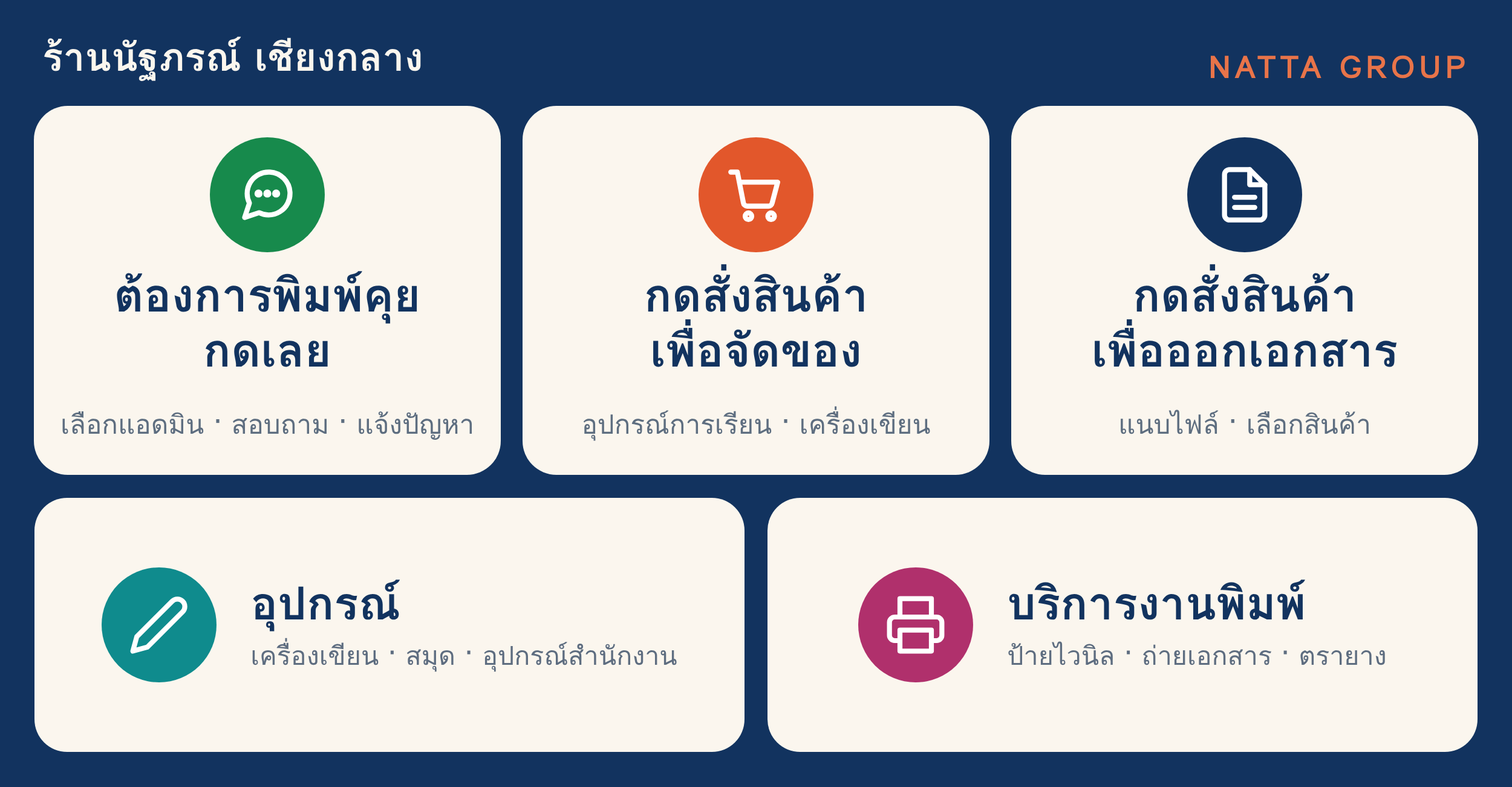
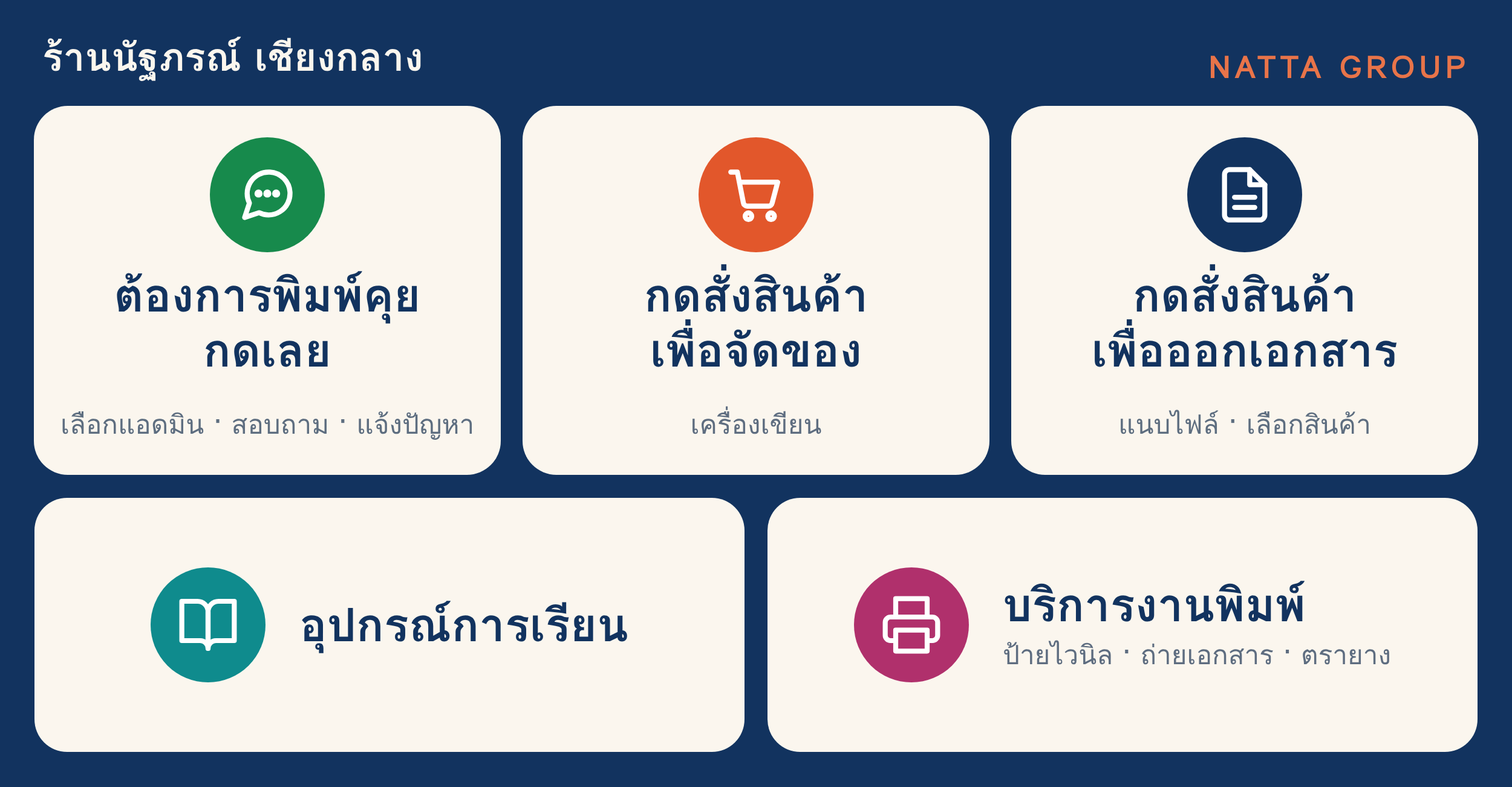
feat(stationery-bot): rich menu v4 — bottom-left button is "อุปกรณ์การเรียน", caption of "สั่งสินค้าจัดของ" is now just "เครื่องเขียน"
The owner marked up the picture: the /อุปกรณ์ link is the school-supplies page, so the bottom-left button is named after it
(book icon, no caption) and "อุปกรณ์การเรียน" is taken out of the caption under "กดสั่งสินค้าเพื่อจัดของ". The caption is redrawn over
the original picture with the font size and position measured by pixel-diffing against the original (Loma 44 px; titles Loma bold 76 px),
so it is indistinguishable from the other captions. Tests also check that the button names in shop.json and in the
line-richmenu function copy are the same.

Claude-Session: https://claude.ai/code/session_017kYrAdUH6vfQHcrjctLsLJ

Changed region(s): [[0.0624, 0.7071, 0.4368, 0.8916], [0.5616, 0.7379, 0.936, 0.8609], [0.3744, 0.5227, 0.624, 0.5534]]

diff --git a/stationery-bot/design/richmenu-v4/menu.html b/stationery-bot/design/richmenu-v4/menu.html
@@ -2,25 +2,28 @@
 <html lang="th"><head><meta charset="utf-8">
 <!-- Rich menu v4 (5 buttons). Top: the 3 original buttons (top-row.png, cropped at y=804, pixel-identical). Bottom: 2 wider cards in the same style.
      Canvas 2500x1301 (LINE allows width 800-2500, height >= 250, ratio >= 1.45). Numbers measured from the original picture:
-     margins 57 · gap 38 · card height 610 (row 1) / 420 (row 2) · corner radius 54 · circle 190 · title 75px bold · caption 43px · font Loma. -->
+     margins 57 · gap 38 · card height 610 (row 1) / 420 (row 2) · corner radius 54 · circle 190 · title 76px bold (line 91) · caption 44px (line 60) · font Loma. -->
 <style>
   :root{--navy:#12335f;--card:#fbf6ee;--ink:#5e6d80}
   html,body{margin:0;padding:0}
   body{width:2500px;height:1301px;background:var(--navy);position:relative;overflow:hidden;font-family:"Loma",sans-serif}
   #top{position:absolute;left:0;top:0;width:2500px;height:804px;background:url(top-row.png) 0 0 no-repeat}
+  #cov2{position:absolute;left:870px;top:655px;width:760px;height:100px;background:var(--card)}
+  #cap2{position:absolute;left:865px;width:770px;top:671px;height:60px;line-height:60px;text-align:center;font-size:44px;color:var(--ink);white-space:nowrap}
   .card{position:absolute;top:823px;height:420px;background:var(--card);border-radius:54px;display:flex;align-items:center;justify-content:center;box-sizing:border-box}
   .a{left:57px;width:1174px}.b{left:1269px;width:1174px}
   .ic{flex:none;width:190px;height:190px;border-radius:50%;display:flex;align-items:center;justify-content:center}
   .ic svg{width:104px;height:104px;fill:none;stroke:#fff;stroke-width:1.9;stroke-linecap:round;stroke-linejoin:round}
   .tx{margin-left:56px;color:var(--navy)}
-  .t{font-weight:700;font-size:75px;line-height:1.2;white-space:nowrap}
-  .c{font-size:43px;line-height:1.3;color:var(--ink);margin-top:14px;white-space:nowrap}
+  .t{font-weight:700;font-size:76px;line-height:91px;white-space:nowrap}
+  .c{font-size:44px;line-height:60px;color:var(--ink);margin-top:6px;white-space:nowrap}
 </style></head>
 <body>
   <div id="top"></div>
+  <div id="cov2"></div><div id="cap2">เครื่องเขียน</div>
   <div class="card a">
-    <div class="ic" style="background:#0f8b8d"><svg viewBox="0 0 24 24"><path d="M17 3a2.828 2.828 0 1 1 4 4L7.5 20.5 2 22l1.5-5.5L17 3z"/></svg></div>
-    <div class="tx"><div class="t">อุปกรณ์</div><div class="c">เครื่องเขียน · สมุด · อุปกรณ์สำนักงาน</div></div>
+    <div class="ic" style="background:#0f8b8d"><svg viewBox="0 0 24 24"><path d="M2 3h6a4 4 0 0 1 4 4v14a3 3 0 0 0-3-3H2z"/><path d="M22 3h-6a4 4 0 0 0-4 4v14a3 3 0 0 1 3-3h7z"/></svg></div>
+    <div class="tx"><div class="t">อุปกรณ์การเรียน</div></div>
   </div>
   <div class="card b">
     <div class="ic" style="background:#b0306c"><svg viewBox="0 0 24 24"><polyline points="6 9 6 2 18 2 18 9"/><path d="M6 18H4a2 2 0 0 1-2-2v-5a2 2 0 0 1 2-2h16a2 2 0 0 1 2 2v5a2 2 0 0 1-2 2h-2"/><rect x="6" y="14" width="12" height="8"/></svg></div>

diff --git a/stationery-bot/tests/richmenu.test.js b/stationery-bot/tests/richmenu.test.js
@@ -69,7 +69,7 @@ test('without `rows` the menu is still one row of equal columns under a title st
   ]);
 });
 
-test('the five buttons: talk to an admin (keyboard opens, the bot asks who) · order for picking · order with documents · equipment page · print-service page', () => {
+test('the five buttons: talk to an admin (keyboard opens, the bot asks who) · order for picking · order with documents · school-supplies page · print-service page', () => {
   const [chat, order, docs, gear, print] = buildRichMenu(shop).areas.map((a) => a.action);
   // the first one sends no message of its own: LINE opens the keyboard and shows "ต้องการคุยกับแอดมิน" as the customer's bubble;
   // the bot gets a postback and answers it as the words "คุยกับแอดมิน" (tests/menu-postback-e2e.test.js runs that on the real server)
@@ -83,8 +83,8 @@ test('the five buttons: talk to an admin (keyboard opens, the bot asks who) · o
   assert.equal(buildReply(shop.richMenu.areas[0].text, shop, {}).needsPhotos, true);
   assert.equal(buildReply(docs.text, shop, {}).needsPhotos, true);
   assert.equal(buildReply(docs.text, shop, {}).askText, shop.contact.documentAsk);
-  // the two web pages of the shop's site: the products page (the owner's link /อุปกรณ์, percent-encoded as LINE wants) and the print services
-  assert.deepEqual([gear.type, gear.label], ['uri', 'อุปกรณ์']);
+  // the two web pages of the shop's site: the school-supplies page (the owner's link /อุปกรณ์, percent-encoded as LINE wants) and the print services
+  assert.deepEqual([gear.type, gear.label], ['uri', 'อุปกรณ์การเรียน']);
   assert.equal(new URL(gear.uri).origin, 'https://www.nattagroup.com');
   assert.equal(decodeURIComponent(new URL(gear.uri).pathname), '/อุปกรณ์');
   assert.ok(/^[\x20-\x7e]+$/.test(gear.uri)); // plain ASCII: nothing for LINE to mis-encode
@@ -152,6 +152,7 @@ test('the shop app\'s line-richmenu function (app-patches/line-richmenu/index.ts
   for (const a of m.areas) {
     assert.ok(block.includes(`bounds: { x: ${a.bounds.x}, y: ${a.bounds.y}, width: ${a.bounds.width}, height: ${a.bounds.height} }`), JSON.stringify(a.bounds));
     if (a.action.type === 'uri' && a.action.uri !== 'https://www.nattagroup.com') assert.ok(block.includes(a.action.uri), a.action.uri);
+    if (a.action.type === 'uri') assert.ok(src.includes(`label: '${a.action.label}'`), a.action.label); // the same button names (the first three come from v2/v3 above)
   }
 });
 

diff --git a/stationery-bot/app-patches/line-richmenu/index.ts b/stationery-bot/app-patches/line-richmenu/index.ts
@@ -68,7 +68,7 @@ const MENU3 = {
   ],
 }
 
-// v4 = 5 ปุ่ม 2 แถว (รูป 2500×1301): แถวบน = 3 ปุ่มเดิม (ปุ่มแรกเป็น postback เหมือน v3) · แถวล่าง = "อุปกรณ์" (หน้าสินค้าของเว็บ) + "บริการงานพิมพ์" (#services)
+// v4 = 5 ปุ่ม 2 แถว (รูป 2500×1301): แถวบน = 3 ปุ่มเดิม (ปุ่มแรกเป็น postback เหมือน v3) · แถวล่าง = "อุปกรณ์การเรียน" (/อุปกรณ์ ของเว็บ) + "บริการงานพิมพ์" (#services)
 //   ตรงกับ shop.json richMenu ของบอท (tests/richmenu.test.js เทียบลิงก์ ขนาด และขอบของแต่ละปุ่มให้)
 const MENU4 = {
   size: { width: 2500, height: 1301 }, selected: true, name: 'NATTA เมนูหลัก v4', chatBarText: 'เมนูร้าน',
@@ -76,7 +76,7 @@ const MENU4 = {
     { bounds: { x: 0, y: 150, width: 833, height: 654 }, action: MENU3.areas[0].action },
     { bounds: { x: 833, y: 150, width: 833, height: 654 }, action: MENU2.areas[1].action },
     { bounds: { x: 1666, y: 150, width: 834, height: 654 }, action: MENU2.areas[2].action },
-    { bounds: { x: 0, y: 804, width: 1250, height: 497 }, action: { type: 'uri', label: 'อุปกรณ์', uri: 'https://www.nattagroup.com/%E0%B8%AD%E0%B8%B8%E0%B8%9B%E0%B8%81%E0%B8%A3%E0%B8%93%E0%B9%8C' } },
+    { bounds: { x: 0, y: 804, width: 1250, height: 497 }, action: { type: 'uri', label: 'อุปกรณ์การเรียน', uri: 'https://www.nattagroup.com/%E0%B8%AD%E0%B8%B8%E0%B8%9B%E0%B8%81%E0%B8%A3%E0%B8%93%E0%B9%8C' } },
     { bounds: { x: 1250, y: 804, width: 1250, height: 497 }, action: { type: 'uri', label: 'บริการงานพิมพ์', uri: 'https://www.nattagroup.com/#services' } },
   ],
 }

diff --git a/stationery-bot/README.md b/stationery-bot/README.md
@@ -132,11 +132,11 @@ LINE อาจส่งข้อความหลายบรรทัดขอ
 
 ## เมนูถาวรใต้แชท (ริชเมนู)
 
-**ริชเมนูที่ลูกค้าเห็นอยู่คือ "NATTA เมนูหลัก v2"** ที่ฟังก์ชัน `line-richmenu` ของแอป NATTA GROUP สร้างไว้ใน LINE (2500×843, ข้อความบนแถบ "เมนูร้าน", 3 ช่อง) · **v4 = เมนู 5 ปุ่ม 2 แถว** (3 ปุ่มเดิม + "อุปกรณ์" + "บริการงานพิมพ์" · 2500×1301 · รูปปัจจุบันของโปรเจกต์ `assets/richmenu.png` · ทดลองกับ LINE ของเจ้าของก่อนแล้วค่อยตั้งเป็นของทุกคน) — ปุ่มของเมนู:
+**ริชเมนูที่ลูกค้าเห็นอยู่คือ "NATTA เมนูหลัก v2"** ที่ฟังก์ชัน `line-richmenu` ของแอป NATTA GROUP สร้างไว้ใน LINE (2500×843, ข้อความบนแถบ "เมนูร้าน", 3 ช่อง) · **v4 = เมนู 5 ปุ่ม 2 แถว** (3 ปุ่มเดิม + "อุปกรณ์การเรียน" + "บริการงานพิมพ์" · 2500×1301 · รูปปัจจุบันของโปรเจกต์ `assets/richmenu.png` · ทดลองกับ LINE ของเจ้าของก่อนแล้วค่อยตั้งเป็นของทุกคน) — ปุ่มของเมนู:
 1. **ต้องการพิมพ์คุย กดเลย** → **เปิดแป้นพิมพ์ทันที** และขึ้น "ต้องการคุยกับแอดมิน" เป็นฟองข้อความของลูกค้า (ปุ่มชนิด *postback*: LINE ไม่ส่งข้อความจริงถึงร้าน) → บอทได้ postback `talk-admin` แล้วตอบเหมือนลูกค้าพิมพ์ "คุยกับแอดมิน": ถาม "ต้องการติดต่อใครคะ" พร้อมปุ่มชื่อแอดมิน (ลูกค้าจะกดชื่อหรือพิมพ์คุยต่อเลยก็ได้) · **ต้องให้บอท Render เป็นผู้รับ webhook** — ถ้า webhook ชี้ที่อื่น (เช่น Botcake) ผู้รับนั้นต้องรู้จัก postback นี้เอง
 2. **กดสั่งสินค้าเพื่อจัดของ** → เปิดเว็บ www.nattagroup.com
 3. **กดสั่งสินค้าเพื่อออกเอกสาร** → ส่งข้อความ "ส่งเอกสารโครงการ" → บอทถามว่าจะส่งเอกสารให้แอดมินคนไหน
-4. *(เฉพาะ v4)* **อุปกรณ์** → เปิดหน้าสินค้าของเว็บ `https://www.nattagroup.com/อุปกรณ์` (ในเมนูเก็บแบบเข้ารหัสเปอร์เซ็นต์ตามที่ LINE ต้องการ) — เว็บเป็นหน้าเดียว (SPA) ลิงก์นี้แสดงหน้า "สินค้าทั้งหมด"
+4. *(เฉพาะ v4)* **อุปกรณ์การเรียน** → เปิด `https://www.nattagroup.com/อุปกรณ์` (ในเมนูเก็บแบบเข้ารหัสเปอร์เซ็นต์ตามที่ LINE ต้องการ; เจ้าของระบุว่าเป็นหน้าอุปกรณ์การเรียน) — เว็บเป็นหน้าเดียว (SPA) ลิงก์ path ภาษาไทยแบบนี้แสดงหน้าสินค้าของเว็บ (ถ้าชื่อตรงกับโรงเรียนในระบบ จะใช้ราคาของโรงเรียนนั้น)
 5. *(เฉพาะ v4)* **บริการงานพิมพ์** → เปิดหน้าบริการงานพิมพ์ (ป้ายไวนิล ถ่ายเอกสาร ตรายาง ฯลฯ) `https://www.nattagroup.com/#services`
 
 ฟังก์ชันดึงรูปจาก `https://nattagroup-y.onrender.com/assets/richmenu-v4.png` (ไฟล์ `public/richmenu-v4.png` ต้องเหมือน `assets/richmenu.png` ทุกไบต์ — มีเทสต์เฝ้า · รูปของ v2 เก็บไว้ที่ `public/richmenu-v2.png`) และตรวจ SHA-256 ก่อนอัปโหลดให้ LINE · เมนูเดิม "NATTA เมนูหลัก v1" (3 ช่องแบบเก่า) ยังอยู่ใน LINE เผื่อย้อนกลับ (ตั้งกลับด้วย `POST /v2/bot/user/all/richmenu/{id}` หรือสั่ง `on` ที่ฟังก์ชัน). เมนูที่สร้างผ่าน API จะไม่ขึ้นให้ลูกค้าจนกว่าจะ**ตั้งเป็นเมนูของทุกคน** (`POST /v2/bot/user/all/richmenu/{richMenuId}`; เอาออก = `DELETE /v2/bot/user/all/richmenu`; ดูว่าตั้งอยู่ไหม = `GET /v2/bot/user/all/richmenu` ได้ 404 แปลว่ายังไม่ตั้ง) และ OA Manager ไม่แสดงเมนูที่สร้างผ่าน API จึงเปิด/ปิดจากหน้านั้นไม่ได้
@@ -147,7 +147,7 @@ LINE อาจส่งข้อความหลายบรรทัดขอ
 - **เปิดให้ติดตั้งได้แล้ว (`richMenu.enabled: true`)** — บอทไม่ทำอะไรกับเมนูจนกว่าแอดมินจะพิมพ์คำสั่ง และถ้ามีเมนูอื่นตั้งเป็นของทุกคนอยู่ (เช่น เมนูของแอป NATTA GROUP ข้างบน) บอทจะไม่ทับ เว้นแต่พิมพ์ "ติดตั้งเมนู ทับ" · ตั้งเป็น `false` เพื่อปิดคำสั่งติดตั้ง (ลบเมนูยังใช้ได้)
 - **ติดตั้ง:** แอดมินพิมพ์ **"ติดตั้งเมนู"** ในแชทกับ OA (ต้องเป็นบัญชีแอดมินของร้าน) — บอทอัปโหลดรูปและตั้งเป็นเมนูของทุกคนเอง แล้วบอกผลกลับ ถ้ามีเมนูอื่นที่ระบบอื่นตั้งไว้ผ่าน API บอทจะไม่ทับ เว้นแต่พิมพ์ **"ติดตั้งเมนู ทับ"**
 - **เอาออก:** พิมพ์ **"ลบเมนู"** (ลบเฉพาะเมนูที่บอทนี้สร้าง ชื่อ `richMenu.name` — ไม่แตะเมนูอื่นของ OA) · **"ลบเมนู" ไม่ได้คืนเมนูของแอป**: เมนู "NATTA เมนูหลัก v1" ยังอยู่ใน OA แต่ไม่เป็นเมนูของทุกคนอีก ลูกค้าจะไม่เห็นเมนูจนกว่าจะติดตั้งใหม่หรือตั้งเมนูของแอปกลับ (`POST /v2/bot/user/all/richmenu/{id}`)
-- ปุ่มแต่ละช่องตั้งที่ `richMenu.areas` (ช่องที่เป็น `text` ส่งข้อความนั้นเป็นข้อความของลูกค้า บอทตอบเหมือนลูกค้าพิมพ์เอง · ช่องที่เป็น `uri` เปิดเว็บ · ช่องที่เป็น `postback` (+ `displayText` ฟองที่ลูกค้าเห็น, `openKeyboard: true` เปิดแป้นพิมพ์, `text` คำที่บอทถือว่าลูกค้าพิมพ์) ไม่ส่งข้อความจริง — มีแต่ปุ่มชนิดนี้เท่านั้นที่เปิดแป้นพิมพ์ได้, ต้องใช้ LINE มือถือรุ่น 12.6+, บนคอมพิวเตอร์ยังขึ้นฟองแต่ไม่เปิดแป้นพิมพ์): คุยกับแอดมิน → "คุยกับแอดมิน" · สั่งสินค้าจัดของ → www.nattagroup.com · สั่งสินค้าออกเอกสาร → "ส่งเอกสารโครงการ" · อุปกรณ์ → www.nattagroup.com/อุปกรณ์ · บริการงานพิมพ์ → www.nattagroup.com/#services — ชื่อ (`label`) ยาวได้ไม่เกิน 20 ตัวอักษร LINE ใช้เป็นคำอ่านให้ผู้ใช้ที่ใช้โปรแกรมอ่านจอ ส่วนข้อความบนปุ่มที่ลูกค้าเห็นอยู่ในรูป
+- ปุ่มแต่ละช่องตั้งที่ `richMenu.areas` (ช่องที่เป็น `text` ส่งข้อความนั้นเป็นข้อความของลูกค้า บอทตอบเหมือนลูกค้าพิมพ์เอง · ช่องที่เป็น `uri` เปิดเว็บ · ช่องที่เป็น `postback` (+ `displayText` ฟองที่ลูกค้าเห็น, `openKeyboard: true` เปิดแป้นพิมพ์, `text` คำที่บอทถือว่าลูกค้าพิมพ์) ไม่ส่งข้อความจริง — มีแต่ปุ่มชนิดนี้เท่านั้นที่เปิดแป้นพิมพ์ได้, ต้องใช้ LINE มือถือรุ่น 12.6+, บนคอมพิวเตอร์ยังขึ้นฟองแต่ไม่เปิดแป้นพิมพ์): คุยกับแอดมิน → "คุยกับแอดมิน" · สั่งสินค้าจัดของ → www.nattagroup.com · สั่งสินค้าออกเอกสาร → "ส่งเอกสารโครงการ" · อุปกรณ์การเรียน → www.nattagroup.com/อุปกรณ์ · บริการงานพิมพ์ → www.nattagroup.com/#services — ชื่อ (`label`) ยาวได้ไม่เกิน 20 ตัวอักษร LINE ใช้เป็นคำอ่านให้ผู้ใช้ที่ใช้โปรแกรมอ่านจอ ส่วนข้อความบนปุ่มที่ลูกค้าเห็นอยู่ในรูป
 - ปุ่มลัดด้านบนของแชท (`quickReplies` ของบอทนี้ และ `old_chips` ของบอทแอป) มีแค่ "เวลาเปิด - ปิด" และ "ที่ตั้งร้าน"
 - **หลายแถว:** `richMenu.height` = ความสูงของรูป (250–1724 px ตามกติกา LINE: กว้าง/สูง ≥ 1.45; ไม่ใส่ = 843) และ `richMenu.rows` เช่น `[{ "top": 150, "columns": 3 }, { "top": 804, "columns": 2 }]` = แถวบน 3 ปุ่ม แถวล่าง 2 ปุ่ม (แต่ละแถวเริ่มที่ `top` ไปจนถึง `top` ของแถวถัดไป หรือขอบล่างของรูป · ปุ่มในแถวกว้างเท่ากัน · ช่องใน `areas` เรียงซ้ายไปขวาทีละแถว · ไม่ใส่ `rows` = แถวเดียวใต้แถบหัว `top` เหมือนเมนูแรก ๆ)
 - เปลี่ยนรูป: แทนที่ **ทั้ง** `assets/richmenu.png` และ `public/richmenu-v4.png` ด้วยไฟล์เดียวกัน (ต้อง PNG/JPEG กว้าง 2500 สูงเท่า `richMenu.height` ไม่เกิน 1 MB — เทสต์จะล้มถ้าสองไฟล์ไม่เหมือนกัน) แล้วสร้างเมนูใหม่ (พิมพ์ "ติดตั้งเมนู" หรือสั่ง `apply` ที่ฟังก์ชัน; เมนูเก่าชื่อเดียวกันของบอทจะถูกแทนที่) · ภาพ v4 สร้างจากไฟล์ใน `design/richmenu-v4/` (HTML + สคริปต์ Playwright ฟอนต์ Loma — ดู README ในโฟลเดอร์นั้น)

diff --git a/stationery-bot/app-patches/line-richmenu/README.md b/stationery-bot/app-patches/line-richmenu/README.md
@@ -13,7 +13,7 @@
 | `set_webhook` + `url` (+ `force`) | ตั้งที่อยู่ webhook ของ OA (LINE ตั้งได้ที่เดียว): ให้ LINE ลองยิงที่อยู่ใหม่ก่อน ไม่ผ่านจะไม่เปลี่ยน (`force:true` = ข้ามการทดสอบ) · เปลี่ยนเฉพาะที่อยู่ ไม่แตะสวิตช์ "ใช้ webhook" · รับเฉพาะ https ของ `nattagroup-y.onrender.com` (บอท Render: `/webhook`) และ `wa.botcake.io` (Botcake) · คืน `prev` = ที่อยู่เดิม — ย้อนกลับโดยเรียกอีกครั้งด้วย url นั้น |
 | `validate` (+ `layout:'v4'` / `'v3'` / `'v2'` หรือ `menu`) | ให้ LINE ตรวจรูปแบบเมนู (ไม่สร้างอะไร) |
 | `fetch_check` + `image_url` | ดึงรูปจาก `https://nattagroup-y.onrender.com/assets/…` แล้วบอกขนาด/SHA-256 (ไม่แตะ LINE) |
-| `apply` (+ `image_url` + `sha`, `layout`, `default`) | สร้างเมนูใหม่ → อัปโหลดรูป → ตั้งเป็นเมนูของทุกคน · มี `image_url` = เมนู v2 (3 ช่อง 2500×843) · `layout:'v3'` = เหมือน v2 แต่ปุ่มที่ 1 เป็น postback (เปิดแป้นพิมพ์ทันที + ฟอง "ต้องการคุยกับแอดมิน") · `layout:'v4'` = เมนู 5 ปุ่ม 2 แถว (3 ปุ่มเดิมโดยปุ่มแรกเป็น postback แบบ v3 + "อุปกรณ์" + "บริการงานพิมพ์") รูป PNG 2500×1301 (รูปต้องมีขนาดเท่ากับเมนูของ layout นั้น) · `default:false` = สร้างและอัปรูปแล้วแต่ยังไม่ตั้งเป็นของทุกคน (ใช้ `link` ให้คนทดลอง) · ไม่มี `image_url` = เมนู v1 กับรูปใน DB · คืน `prev` = เมนูที่ใช้อยู่ก่อนหน้า |
+| `apply` (+ `image_url` + `sha`, `layout`, `default`) | สร้างเมนูใหม่ → อัปโหลดรูป → ตั้งเป็นเมนูของทุกคน · มี `image_url` = เมนู v2 (3 ช่อง 2500×843) · `layout:'v3'` = เหมือน v2 แต่ปุ่มที่ 1 เป็น postback (เปิดแป้นพิมพ์ทันที + ฟอง "ต้องการคุยกับแอดมิน") · `layout:'v4'` = เมนู 5 ปุ่ม 2 แถว (3 ปุ่มเดิมโดยปุ่มแรกเป็น postback แบบ v3 + "อุปกรณ์การเรียน" + "บริการงานพิมพ์") รูป PNG 2500×1301 (รูปต้องมีขนาดเท่ากับเมนูของ layout นั้น) · `default:false` = สร้างและอัปรูปแล้วแต่ยังไม่ตั้งเป็นของทุกคน (ใช้ `link` ให้คนทดลอง) · ไม่มี `image_url` = เมนู v1 กับรูปใน DB · คืน `prev` = เมนูที่ใช้อยู่ก่อนหน้า |
 | `link` + `user` + `id` / `unlink` + `user` | ให้ผู้ใช้คนเดียวเห็นเมนูนี้ (ไว้ทดลองก่อนเปลี่ยนให้ทุกคน) / เอาออก |
 | `delete` + `id` | ลบเมนูที่ไม่ใช้แล้ว (ไม่ยอมลบเมนูที่ทุกคนเห็นอยู่) |
 | `on` + `id` | ตั้งเมนูที่มีอยู่แล้วให้เป็นของทุกคน (ใช้ย้อนกลับ) |

diff --git a/stationery-bot/design/richmenu-v4/README.md b/stationery-bot/design/richmenu-v4/README.md
@@ -5,7 +5,7 @@
 สร้างจาก 2 ส่วน:
 
 - `top-row.png` — ภาพเมนูเดิม 3 ปุ่ม (2500×843) ใช้เป็นแถวบน **ตัดที่ y = 804** (ใต้การ์ดมีแต่สีพื้นนาวี จึงตัดแล้วไม่เห็นรอยต่อ) แถวบนจึงเหมือนของเดิมทุกพิกเซล
-- `menu.html` — แถวล่าง 2 ปุ่ม ("อุปกรณ์" · "บริการงานพิมพ์") วาดด้วย HTML/CSS/SVG ให้เข้ากับของเดิม ตัวเลขทั้งหมดวัดจากภาพเดิม: ขอบซ้ายขวา 57 · ช่องว่างระหว่างการ์ด 38 · การ์ดสูง 610 (แถวล่างสูง 420) · มุมโค้ง 54 · วงกลมไอคอน 190 · ตัวหนังสือชื่อ 75 px ตัวหนา · คำอธิบายใต้ชื่อ 43 px · ฟอนต์ **Loma** (ฟอนต์ไทยที่ลงในเครื่อง) · สี พื้น `#12335f` การ์ด `#fbf6ee` คำอธิบาย `#5e6d80` วงกลม เขียว `#178a4c` ส้ม `#e2572b` นาวี `#12335f` ฟ้าเขียว `#0f8b8d` (อุปกรณ์) ม่วงแดง `#b0306c` (งานพิมพ์)
+- `menu.html` — แถวล่าง 2 ปุ่ม ("อุปกรณ์การเรียน" · "บริการงานพิมพ์") วาดด้วย HTML/CSS/SVG ให้เข้ากับของเดิม และวาดคำใต้ปุ่ม "กดสั่งสินค้าเพื่อจัดของ" ใหม่ทับของเดิม (เหลือ "เครื่องเขียน" ตามที่เจ้าของขีด) ตัวเลขทั้งหมดวัดจากภาพเดิมโดยเทียบพิกเซล (คำอธิบายใต้ชื่อ Loma 44 px ตำแหน่ง top 671 · ชื่อ Loma ตัวหนา 76 px บรรทัดสูง 91): ขอบซ้ายขวา 57 · ช่องว่างระหว่างการ์ด 38 · การ์ดสูง 610 (แถวล่างสูง 420) · มุมโค้ง 54 · วงกลมไอคอน 190 · ฟอนต์ **Loma** (ฟอนต์ไทยที่ลงในเครื่อง) · สี พื้น `#12335f` การ์ด `#fbf6ee` คำอธิบาย `#5e6d80` วงกลม เขียว `#178a4c` ส้ม `#e2572b` นาวี `#12335f` ฟ้าเขียว `#0f8b8d` (อุปกรณ์การเรียน · ไอคอนหนังสือ) ม่วงแดง `#b0306c` (งานพิมพ์)
 
 ## สร้างภาพใหม่
 
@@ -24,7 +24,7 @@ cp ../../assets/richmenu.png ../../public/richmenu-v4.png
 | ต้องการพิมพ์คุย กดเลย (postback เปิดแป้นพิมพ์) | 0 | 150 | 833 | 654 |
 | กดสั่งสินค้าเพื่อจัดของ (เว็บร้าน) | 833 | 150 | 833 | 654 |
 | กดสั่งสินค้าเพื่อออกเอกสาร ("ส่งเอกสารโครงการ") | 1666 | 150 | 834 | 654 |
-| อุปกรณ์ (`/อุปกรณ์`) | 0 | 804 | 1250 | 497 |
+| อุปกรณ์การเรียน (`/อุปกรณ์`) | 0 | 804 | 1250 | 497 |
 | บริการงานพิมพ์ (`/#services`) | 1250 | 804 | 1250 | 497 |
 
 แถบหัว (y < 150) ที่เขียนชื่อร้านและ NATTA GROUP ไม่ใช่ปุ่ม
